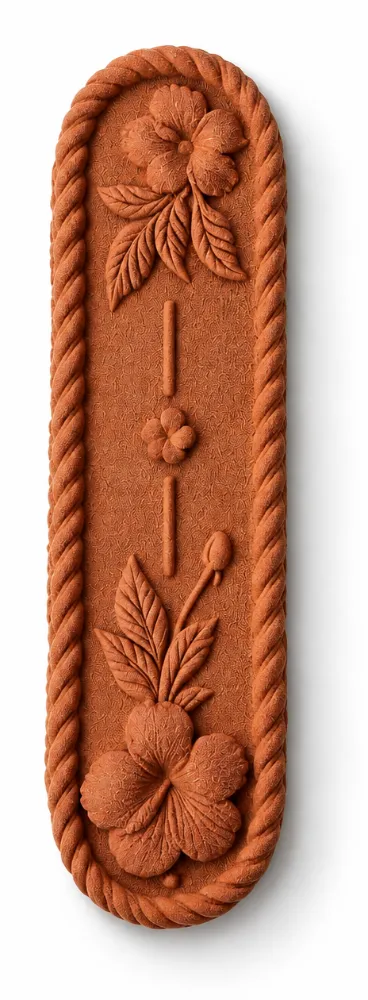
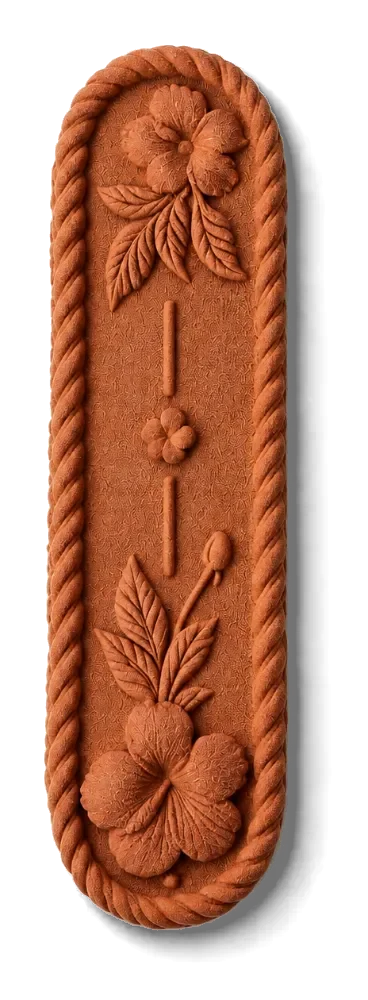
Photos des bûches et des gousses : fond transparent (iPhone)
Safari sur iPhone ignore mix-blend-mode dans les zones qui défilent :
le fond blanc restait visible dans la galerie. Fond détouré dans les
images, ombre conservée ; règles multiply retirées.

Changed region(s): [[0.3886, 0.093, 0.837, 0.961], [0.2989, 0.899, 0.3886, 0.93]]

diff --git a/styles.css b/styles.css
@@ -396,7 +396,6 @@ main { overflow-x: clip; }
 }
 .parfums__img.is-active { opacity: 1; transform: none; }
 /* Photos de bûches sur fond blanc (découpe, profil, dessus) : le blanc se fond dans le marbre */
-img[src$="-coupe.webp"], img[src$="-profil.webp"], img[src$="-dessus.webp"] { mix-blend-mode: multiply; }
 .une .parfums__media { aspect-ratio: 1000 / 899; max-width: 24rem; }
 
 /* Page bûches : galerie découpe / profil / dessus, qu'on fait glisser du doigt */
@@ -542,7 +541,6 @@ img[src$="-coupe.webp"], img[src$="-profil.webp"], img[src$="-dessus.webp"] { mi
 /* Deux photos verticales côte à côte (vanille) */
 .produit__photos--duo { grid-template-columns: minmax(0, 446fr) minmax(0, 606fr); align-items: end; max-width: 30rem; margin: 0 auto; }
 /* Photo sur fond blanc : le blanc se fond dans le marbre */
-.produit__photo--fond-blanc { mix-blend-mode: multiply; filter: brightness(1.04); }
 .produit__texte { text-align: center; }
 .produit__texte .lys { margin-bottom: .9rem; }
 .produit__titre { font-size: clamp(2.1rem, 1.6rem + 2.4vw, 3.4rem); line-height: 1.08; color: var(--nuit); margin-bottom: .45em; }

diff --git a/vanille.html b/vanille.html
@@ -95,7 +95,7 @@
         <div class="produit__photos produit__photos--duo">
           <img class="produit__photo" src="images/vanille-tube.webp" width="446" height="1000"
                alt="Tube en verre de gousses de vanille de Madagascar, étiquette Bryan Didon">
-          <img class="produit__photo produit__photo--fond-blanc" src="images/vanille-gousses.webp" width="606" height="1000" loading="lazy"
+          <img class="produit__photo" src="images/vanille-gousses.webp" width="606" height="1000" loading="lazy"
                alt="Cinq gousses de vanille Bourbon de Madagascar, charnues et brillantes">
         </div>
       </div>

diff --git a/CLAUDE.md b/CLAUDE.md
@@ -29,7 +29,7 @@ Site vitrine qui présente la marque et **redirige vers l'application de command
 - **Prix d'un produit à plusieurs tailles : toujours écrit « à partir de » le plus petit prix** dans les listes (ex. galette « à partir de 26 € »).
 - `galette.html`, `buches.html` (parfum choisi via `?parfum=exotique|chocolat|vanille`), `praline.html`, `vanille.html`, servies en `/galette`, `/buches`, `/praline`, `/vanille`.
 - Bûches : la description de chaque parfum (parts, couches de haut en bas, pictogrammes allergènes et garanties « sans porc »…) est **uniquement dans `buches.html`** (l'accueil n'en montre plus le détail). Pictogrammes : symboles `#p-*` du sprite SVG.
-- Photos des bûches : `images/buche-<parfum>-coupe|profil|dessus.webp` (fond blanc fondu dans le marbre). La découpe est mise en avant (À la une, catalogue, vignettes) ; galerie des 3 vues sur `/buches`. Galerie de `/buches` : Découpe, Profil, Dessus. Le carrousel du haut de l'accueil utilise les vues de profil détourées `buche-<parfum>-profil-detoure.webp` (la galette en est retirée hors saison : la remettre avec `galette-hero.webp`).
+- Photos des bûches : `images/buche-<parfum>-coupe|profil|dessus.webp` (fond transparent avec ombre douce ; toute nouvelle photo sur fond blanc doit être détourée : ne pas compter sur `mix-blend-mode`, que Safari sur iPhone ignore dans les zones qui défilent). La découpe est mise en avant (À la une, catalogue, vignettes) ; galerie des 3 vues sur `/buches`. Galerie de `/buches` : Découpe, Profil, Dessus. Le carrousel du haut de l'accueil utilise les vues de profil détourées `buche-<parfum>-profil-detoure.webp` (la galette en est retirée hors saison : la remettre avec `galette-hero.webp`).
 - **Galette hors saison** (jusqu'à janvier) : tous ses blocs sont en commentaire `<!-- HORS SAISON – galette … -->` (accueil, catalogue + onglet Galettes, « Nos autres créations », La Maison), `/galette` est redirigée vers `/creations` (redirection temporaire dans `vercel.json`) et elle est retirée des descriptions `<meta>` de l'accueil et du catalogue. Pour la remettre : décommenter ces blocs, retirer la redirection, remettre « galette des rois » dans les descriptions, remettre `galette-hero.webp` dans le carrousel et adapter le bloc `saveurs` de l'accueil.
 - Accueil : la création de saison en « Trois parfums » (bloc `<article class="saveurs">` : une carte par bûche avec photo intérieure, goût, Commander, composition ; sur téléphone l'une sous l'autre en cartes compactes photo à gauche, 3 côte à côte sur ordinateur), un bandeau gros plan `buche-texture.webp`, puis « Toute la carte » en petites cartes vers les fiches (l'une sous l'autre sur téléphone, côte à côte sur ordinateur). Le catalogue complet est sur `/creations` (onglets Bûches / Galettes / À tartiner / Épicerie, lien direct `/creations?categorie=buches` ; un onglet sans produit disparaît).
 - Téléphone : barre « Commander » en bas de l'écran (créée par `script.js`) sur l'accueil et les fiches, seulement panier vide (panier rempli : bouton « Panier » de Takeat).
